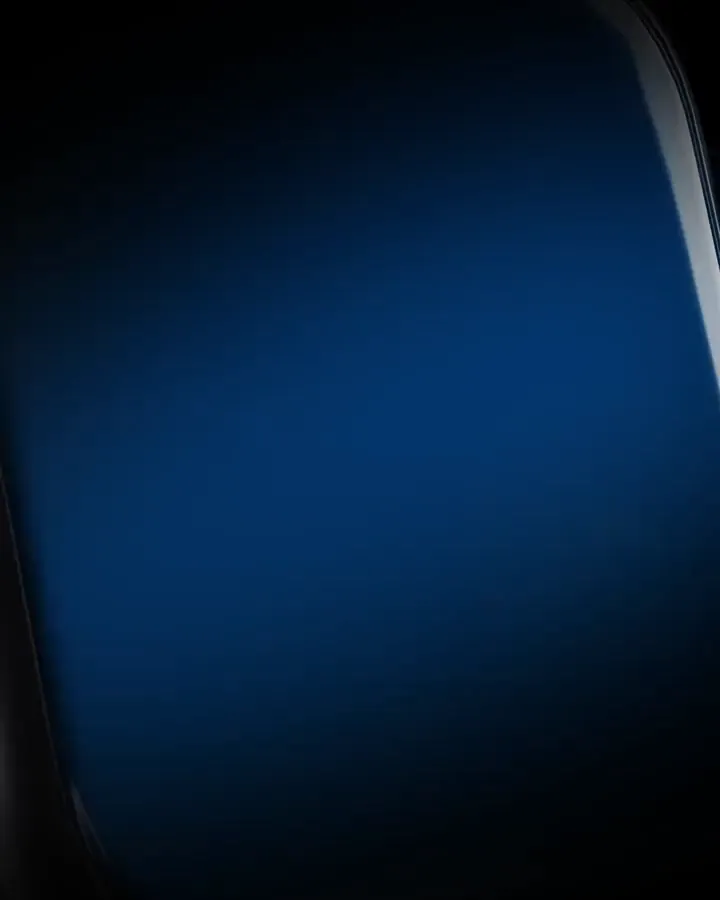
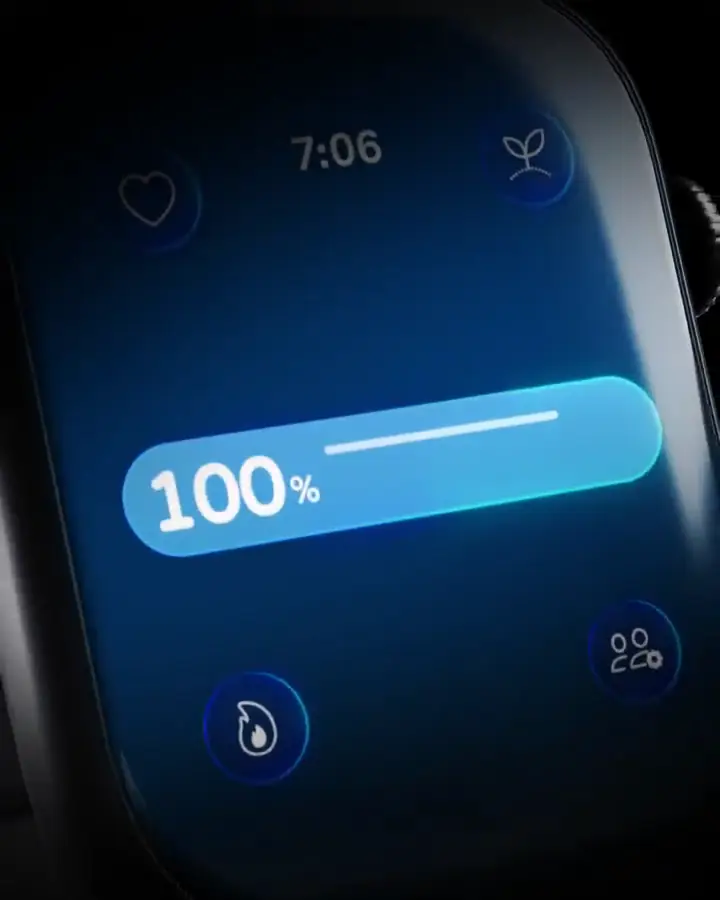
Load on the bar, and let the words carry the section
Two things, both about what a visitor looks at first.

The poster was frame 0 of the encoded clip, which is the fade-in: mean
brightness 23.7, effectively a black rectangle. On a slow connection the
skeleton state for an ad landing page was a dark hole. It is now 2.2s —
the bar full and glowing, the page's own headline made literal. 2.3667s
is the first scene cut, so that is the last frame of the opening shot;
within it 2.2s measured sharpest at 45.2. Brightness 38.8, 11.6 KB
(the old 6.7 KB was small because near-black compresses to nothing).

And the segue, reversed on Bryce's call, correctly. 33 is a thin number
to open on — it invites "only 33?" before anyone has read a line. The
words are the asset, so they lead and nothing stands in front of them:
headline, then "What people are saying" directly above the cards where
it works as a lead-in rather than a label. The rating moves under the
quotes, where the same 33 corroborates four people instead of being the
claim itself.

Known trade-off: the poster is bright and the clip still opens dark, so
a fast load shows a brief bright-to-dark step before the bar refills.
The slow case is the one the poster exists for.

diff --git a/get.html b/get.html
@@ -231,7 +231,7 @@
       font-size: clamp(.95rem, 3.7vw, 1.06rem); line-height: 1.45; color: var(--muted);
     }
     .eyebrow {
-      margin-bottom: 12px; font-size: .72rem; font-weight: 700;
+      margin-top: 14px; margin-bottom: 0; font-size: .72rem; font-weight: 700;
       letter-spacing: .15em; text-transform: uppercase; color: var(--faint);
     }
     .says { list-style: none; display: grid; gap: 9px; margin: 22px auto 0; max-width: 470px; text-align: left; }
@@ -252,7 +252,7 @@
     .beat-wide .vid-wrap { padding-top: 22px; }
 
     .rating { display: inline-flex; align-items: center; gap: 9px; margin-top: 16px; font-size: .88rem; color: var(--muted); }
-    .rating-lead { margin: 0 auto 13px; white-space: nowrap; }
+    .rating-anchor { margin: 15px auto 0; }
     .stars { color: var(--star); letter-spacing: .06em; font-size: .95rem; }
     .rating b { color: #fff; font-weight: 600; }
 
@@ -573,17 +573,14 @@
          of conviction — and the hero gave them one person saying it is
          good, which invites exactly one question: is he the only one. -->
     <section class="beat beat-wide" id="reviews">
-      <!-- The hero closes on one man's claim, which invites exactly one
-           question: is he the only one. The rating answers it before the
-           headline asks anything, and it is more direct than the label that
-           used to sit here ("What people are saying" told a reader nothing
-           they could not see for themselves). -->
+      <!-- The words are the asset here, so they go first and nothing stands
+           in front of them. 33 is a thin number to open on — it invites "only
+           33?" before anyone has read a line. Read after four people have
+           said their piece, the same number corroborates instead, so it
+           anchors the block rather than leading it. -->
       <div class="beat-copy">
-        <p class="rating rating-lead">
-          <span class="stars" aria-hidden="true">&#9733;&#9733;&#9733;&#9733;&#9733;</span>
-          <span><b>5.0</b> from 33 ratings</span>
-        </p>
         <h2>Nobody describes it without a metaphor.</h2>
+        <p class="eyebrow">What people are saying</p>
       </div>
       <!-- Dave speaks last in the hero, so he does not speak first again
            here. Draftish leads because his line is the shortest statement of
@@ -607,6 +604,10 @@
           <q>As y'all can hear, this app is very accessible for the visually impaired community.</q>
         </li>
       </ul>
+      <p class="rating rating-anchor">
+        <span class="stars" aria-hidden="true">&#9733;&#9733;&#9733;&#9733;&#9733;</span>
+        <span><b>5.0</b> from 33 ratings on the App Store</span>
+      </p>
     <section class="vid-wrap" aria-label="See it in action">
       <div class="vid" id="vid">
         <picture>
